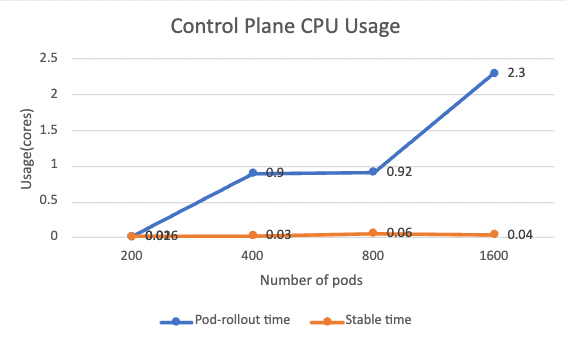
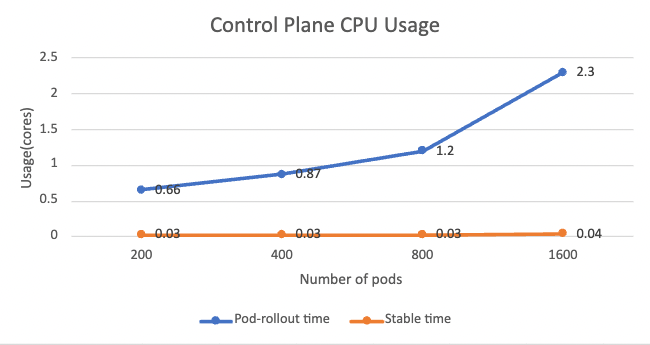
Update to perf & scalability
* Cluster specs
* Latency in scenarios of various connections, permissive mode and
  ingress mode
* Add sidecar injection performance

diff --git a/content/en/docs/guides/ha_scale/perf-scale.md b/content/en/docs/guides/ha_scale/perf-scale.md
@@ -8,11 +8,11 @@ Open Service Mesh aims to create a high-performance service mesh while providing
 
 ## Testing environment
 
-This test is performed on a Kubernetes cluster provisioned and managed by [Microsoft Azure Kubernetes Service](https://azure.microsoft.com/en-us/services/kubernetes-service/). The cluster has 100 Standard_DS2_v2 nodes (each node has 2 vCPUs and 7GB memory) and 3 Standard_D32s_v3 nodes (32 vCPUs and 128GB memory) reserved for high intensity tests. It is ensured that there is only one OSM controller pod running with default resource quota during the test. OSM is configured in non-permissive traffic mode.
+This test is performed on a Kubernetes cluster provisioned and managed by [Microsoft Azure Kubernetes Service](https://azure.microsoft.com/en-us/services/kubernetes-service/). The cluster has 62 Standard_D32s_v3 nodes (each node has 32 vCPUs and 128GB memory). That gives us around 2000 vCPUs. During the test, it is ensured that there is only one OSM controller pod running with default resource quota. OSM is configured with non-permissive traffic mode.
 
 ## Process
 
-The testing mesh contains two types of services. One is a load generator (modified from [wrk2](https://github.com/giltene/wrk2)), which can send requests at specified rate, load balanced among all other services in the mesh. Currently we test HTTP 1 requests only. The load generator serves as the client side of a request. Throughout our test, there will be at most one load generator service. The other type of service is a simple echo application that replies with whatever it receives from an inbound request. It serves as the server side of a request. We can deploy multiple copies of the echo application in the mesh. In short, the mesh topology is a typical 1-to-N service architecture.
+The testing mesh contains two types of services. One is a load generator (modified from [wrk2](https://github.com/giltene/wrk2)), which can send requests at specified rate, load balanced among all other services in the mesh. Currently we test HTTP/1 requests only. The load generator serves as the client side of a request. Throughout our test, there will be at most one load generator service. The other type of service is a simple echo application that replies with whatever it receives from an inbound request. It serves as the server side of a request. We can deploy multiple copies of the echo application in the mesh. In short, the mesh topology is a typical 1-to-N service architecture.
 
 <p align="center">
   <img src="/docs/images/perf/mesh-topo.png" width="650"/>
@@ -20,17 +20,19 @@ The testing mesh contains two types of services. One is a load generator (modifi
 
 ## Performance
 
-In this test, we focus on the latency overhead and resource consumption added by the OSM sidecar. We currently test the per pod RPS at 100, 500, 1000, 2000 and 4000 respectively.
+In this section, we focus on the request latency and resource consumption added by the OSM sidecar. We will test the per pod request rate at 100, 500, 1000, 2000 and 4000 RPS respectively.
 
 ### Latency
 
-#### Test 1: Relation with RPS
+#### Test 1: Relation with request rate
 
-In our test, regardless of the RPS level, OSM adds around 0.5ms and 5ms overhead to the 50th percentile and the 99th percentile latency respectively. This is caused by the request processing in both the client and server sidecars, for tasks like mTLS authentication, metrics collection etc. Our test setup was with a single client and server. Performance may vary with more complex applications, or with different traffic policies set on the mesh.
+In this test, the workload receives requests at various request rates. In order to save the bandwidth of the cluster, only one workload pod is set up and monitored.
+
+Regardless of the request rates, OSM adds around 1ms and 4ms overhead to the 50th percentile and the 99th percentile latency respectively compared to the case without OSM (please refer to the chart in the Ingress traffic section below). This is caused by the request processing in both the client and server sidecars, for tasks like mTLS authentication, metrics collection etc. Our test setup was with a single client and server. Performance may vary with more complex applications, or with different traffic policies set on the mesh.
 
 #### Test 2: Relation with number of connections
 
-A similar setup to RPS scenario is used to test the relationship between latency and number of connections to the sidecar proxy. In this test, the per pod RPS is set at 2500. As the number of connections increased, the request latency showed a proportional increase while the sidecar memory usage to maintain those open connections only slightly increased. The sidecar consumes around 5MB memory for every 100 connections maintained.
+A similar setup to request rate scenario is used to test the relationship between latency and number of connections to the sidecar proxy. In this test, the per pod request rate is set at 1000 RPS. As the number of connections increases, the request latency shows a proportional increase while the sidecar memory usage to maintain those open connections only slightly increases. The sidecar consumes around 5MB memory for every 100 connections maintained.
 
 <p align="center">
   <img src="/docs/images/perf/latency-conns.png" width="650"/>
@@ -72,9 +74,17 @@ Below shows the memory usage at both pod-rollout time and stable time:
 
 There is not much difference between pod-rollout time and stable time in terms of memory usage. Memory is primarily used to store xDS configurations, which is highly relevant to the mesh scale. The memory usage is also roughly proportionally increasing along with the mesh scale. In our scenario, <b>it takes around 1MB of memory for every one pod added to the mesh.</b>
 
+#### Sidecar injection
+
+Sidecar injection speed is also measured. In the test, we keep one `osm-injector` and `osm-controller` pod respectively. With the default resource quota, OSM adds around 100 pods/minute to the mesh. At this moment, `osm-injector` hits its CPU resource limit at 0.5 cores.
+
+After increasing its resource quota to 2 cores, OSM adds around 200 pods/minute. `osm-injector` uses up to 0.8 cores during the test where CPU quota is no longer the bottleneck.
+
+To further increase the sidecar injection speed, it is recommended to scale upo the `osm-injector` Kubernetes deployment.
+
 ### Data Plane
 
-By looking at the collected metrics, in our testing scenarios, resource consumption of data plane sidecars does not change much along with the mesh size. At stable time, the average CPU usage is close to 0 and average memory usage is around 50MB. CPU usage is related to request processing and memory usage is related the size of Envoy configuration stored locally. These two factors do not change with the mesh scale.
+By looking at the collected metrics, in our testing scenarios, resource consumption of data plane sidecars does not change much along with the mesh size. At stable time, the average CPU usage is close to 0 and average memory usage is around 140MB. CPU usage is related to request processing and memory usage is related the size of Envoy configuration stored locally. These two factors do not change with the mesh scale.
 
 ### Other Scenarios
 
@@ -90,7 +100,7 @@ On the data plane, there is no obvious difference in terms of CPU usage. However
   <img src="/docs/images/perf/perm-memory.png" width="650"/>
 </p>
 
-The request latency from load generator to workloads is lower in permissive mode. This reduction is due to the RBAC policy filter path being a single wildcard filter as described above. This filter path is shorter than non-permissive mode and there is less rule matching operations for incoming requests. In our test, we observe the P99 latency drops to around 80% in permissive mode. The more SMI traffic policies added to services in non-permissive mode, the larger request time overhead we expect. Below is the latency comparison between permissive and non-permissive mode, tested with 250 per pod RPS:
+The request latency from load generator to workloads is at the same level regardless of permissive mode. In both modes, the RBAC policy filter chain contains one rule, allows either all requests or requests from one specific source. Thus, they perform similarly. But we expect that with more rules in the filter chain, the non-permissive mode will cause higher latency.
 
 <p align="center">
   <img src="/docs/images/perf/latency-perm-vs-non-perm.png" width="650"/>
@@ -98,15 +108,15 @@ The request latency from load generator to workloads is lower in permissive mode
 
 #### Ingress traffic
 
-In this test, the load generator is deployed outside of the mesh. The requests enter the mesh via [IngressBackend](https://docs.openservicemesh.io/docs/guides/traffic_management/ingress/#ingressbackend-api). Therefore, the request only goes through one Envoy sidecar instead of two.
+In this test, the load generator is deployed outside of the mesh. The requests enter the mesh via [IngressBackend](https://docs.openservicemesh.io/docs/guides/traffic_management/ingress/#ingressbackend-api).
 
-We compared three scenarios:
+We compared these three scenarios:
 
-* Normal: load generator is inside the mesh. Request goes through 2 sidecars.
-* Ingress: load generator is outside the mesh. Request goes through 1 sidecar.
+* Normal: The load generator is inside the mesh. The request goes through 2 sidecars.
+* Ingress: The load generator is outside the mesh. The request goes through only 1 sidecar.
 * No OSM installed: Request does not go through any sidecar.
 
-The test result shows that the latency of the ingress scenario is significantly lower than the normal scenario. The ingress scenario is roughly equal to the results of the scenario without OSM installed. This result shows that a single Envoy sidecar does add latency overhead. This complies with our expectation.
+The test result shows that in the ingress scenario, the request latency is significantly lower than the normal scenario. It confirms that request going through an extra Envoy sidecar does add latency overhead. This complies with our expectation.
 
 <p align="center">
   <img src="/docs/images/perf/latency-ingress.png" width="650"/>
